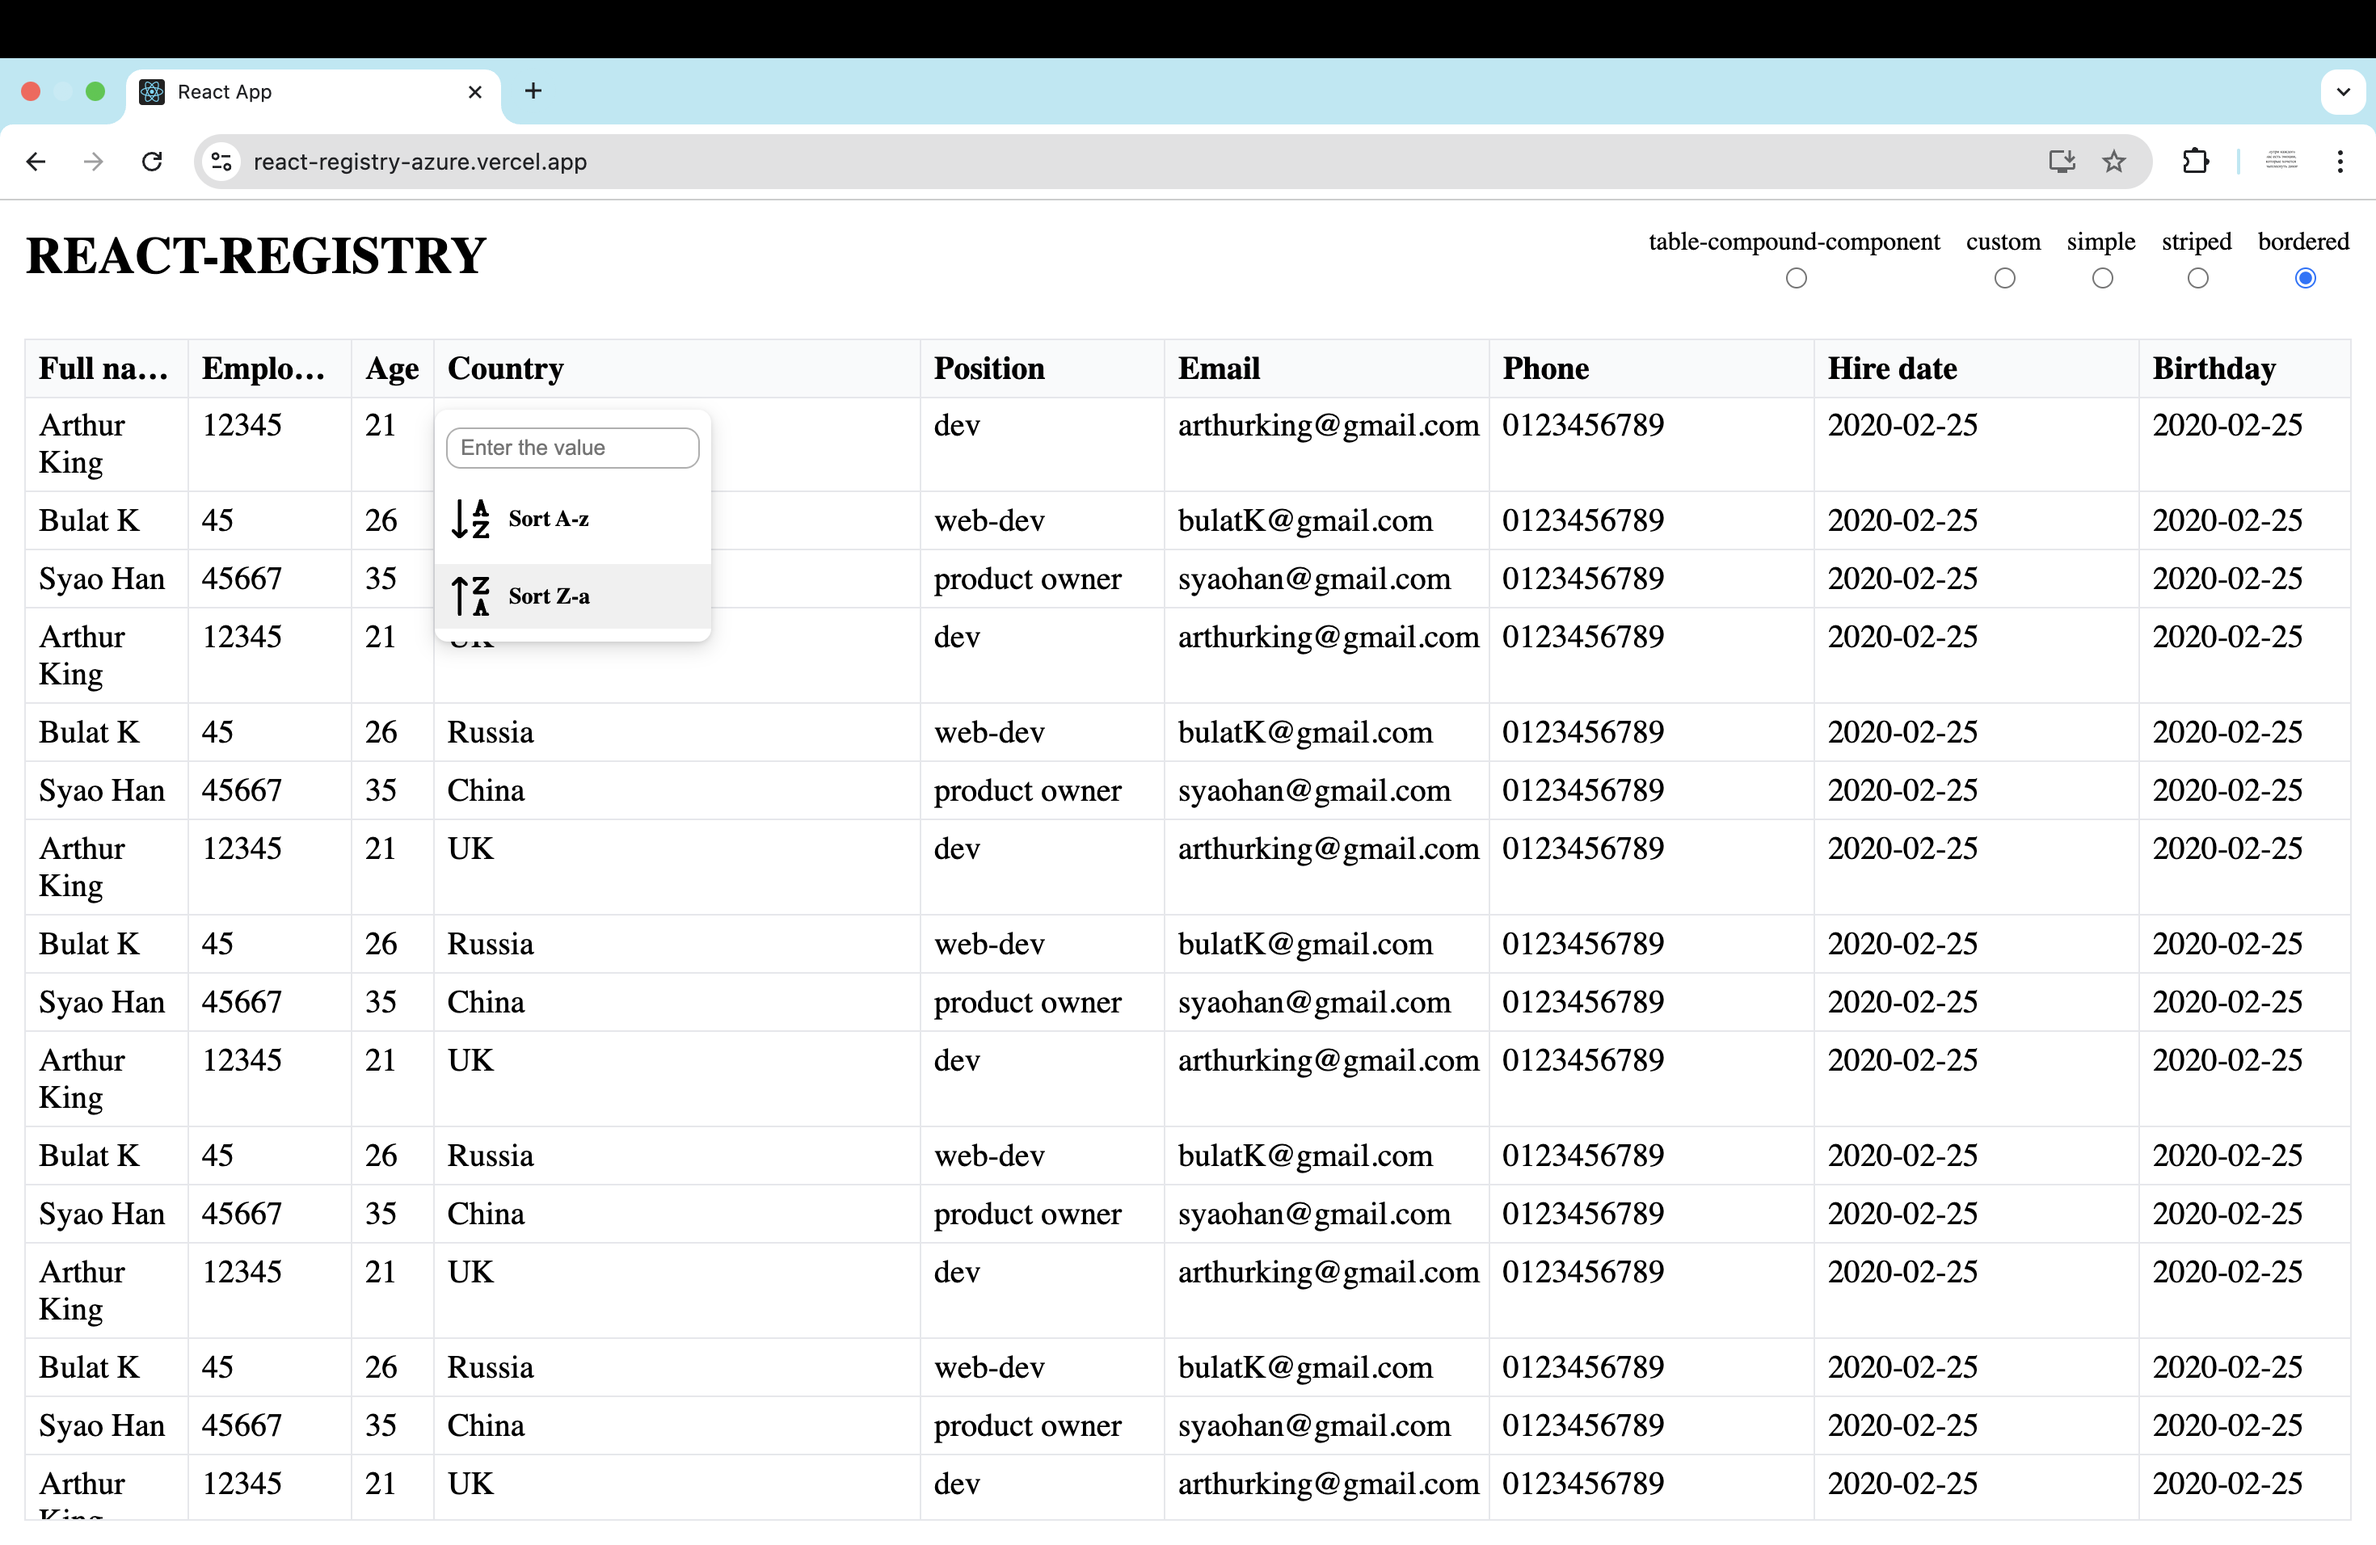
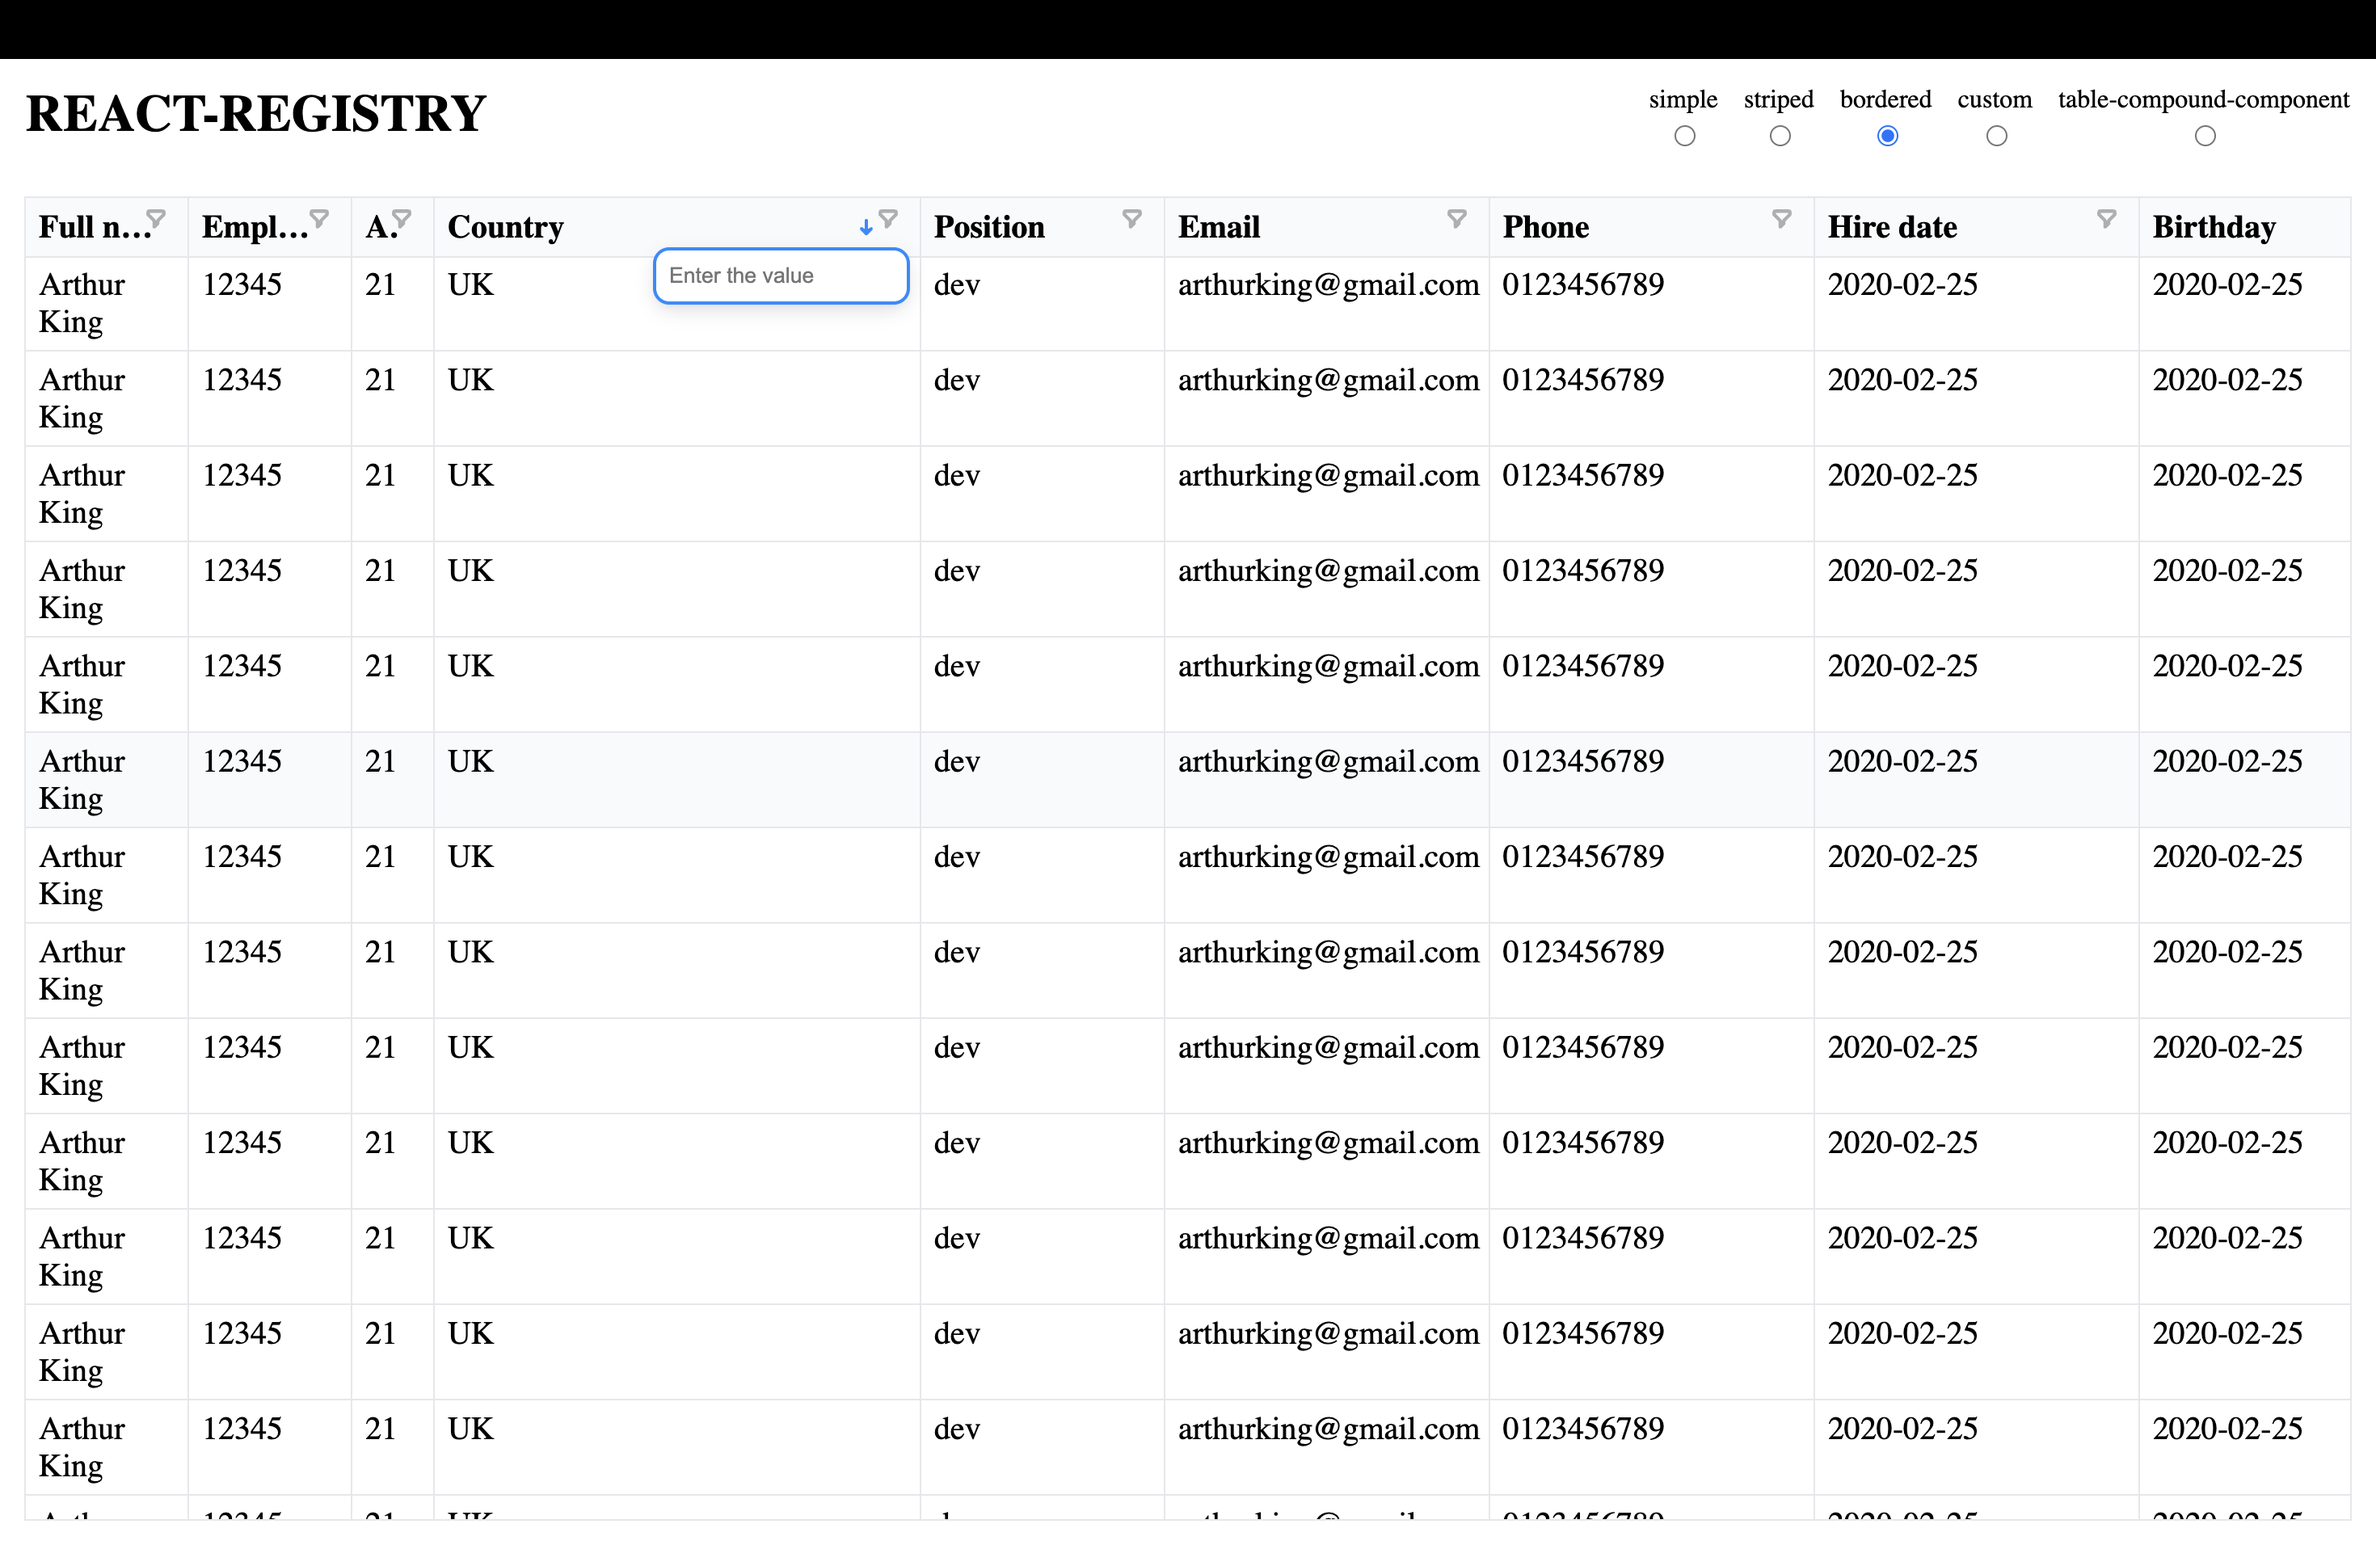
MVP: update: README.md (new correct examples)

diff --git a/README.md b/README.md
@@ -8,9 +8,8 @@ A lightweight, fully typed React component for building powerful data tables —
 
 ## ✨ Features
 
-
-- ✅ **Sorting** — sort data via header popup
-- ✅ **Filtering** — configure filters via header popup
+- ✅ **Column sorting** — click a column header to sort
+- ✅ **Per-column filtering** — click the filter icon in any header to filter that column
 - ✅ **Fully typed** — TypeScript support included
 - ✅ **Minimum dependencies** — no heavy UI libraries
 - ✅ **Easy to customize** — clean, modular code
@@ -27,19 +26,19 @@ npm install react-registry
 ```
 Basic usage (**Registry**):
 ```typescript jsx
-import { Registry } from 'react-registry';
+import { Registry, RegistryHeader } from 'react-registry';
 
 const DATA = [
-    { fullName: 'Harry Potter', employeeNumber: 1, age: 18 }
+    { id: 1, fullName: 'Harry Potter', employeeNumber: 1, age: 18 },
 ];
 
-const HEADERS = [
-    { key: 'fullName', width: 'calc(50% - 30px)', label: 'Full name' },
-    { key: 'employeeNumber', width: 'calc(50% - 30px)', label: 'Employee number' },
+const HEADERS: RegistryHeader<(typeof DATA)[number]>[] = [
+    { key: 'fullName', width: 'calc(50% - 26px)', label: 'Full name' },
+    { key: 'employeeNumber', width: 'calc(50% - 26px)', label: 'Employee number' },
     { key: 'age', width: '50px', label: 'Age' },
 ];
 
-function App() {
+export function App() {
     return (
         <Registry
             data={DATA}
@@ -67,11 +66,13 @@ _💡 For full control, use the Table compound component and utility hooks (see 
 ## Advanced Usage
 ### Custom header rendering (with sort indicators)
 
-Override the default header to show sort direction symbols:
+Override the default header to add a popup component and display sort direction symbols:
 
 ```typescript jsx
+import { Registry, RegistryHeader, SortDirection, Table } from 'react-registry';
 import { DATA, HEADERS } from './constants';
-import { Registry, SortDirection, Table } from 'react-registry';
+import { useCallback, useRef, useState } from 'react';
+import { ColumnPopup } from './column-popup';
 import s from './styles.module.scss';
 
 const getSortSymbol = (sortDir: SortDirection) => {
@@ -85,30 +86,69 @@ const getSortSymbol = (sortDir: SortDirection) => {
     return '';
 };
 
-export const RegistryWithPopup = () => {
+const getStatusSymbol = (status: string) => (status === 'active' ? '✅' : '❌');
+
+export function App() {
     return (
         <Registry
             data={DATA}
             headers={HEADERS}
             variant={'bordered'}
+            layoutMode={'grid'}
             sortable={true}
-            filterable={false}
+            filterable={true}
             className={s.customRegistry}
-            renderHeaderCell={(props) => {
-                return (
-                    <Table.HeaderCell
-                        index={props.index}
-                        width={props.header.width}
-                        onClick={() => props.setSort(props.header.key)}
-                    >
-                        {props.header.label}
-                        {getSortSymbol(props.sortDirection)}
-                    </Table.HeaderCell>
-                );
+            renderHeaderCell={{
+                Component: ({ header, setFilter, setSort, ...props }) => {
+                    const ref = useRef<HTMLDivElement>(null);
+                    const [opened, setOpened] = useState(false);
+                    const toggle = useCallback(() => setOpened((prev) => !prev), []);
+                    const filter = (value: string) =>
+                        setFilter(header.key, value);
+
+                    const sort = (sortDirection: SortDirection) =>
+                        setSort(header.key, sortDirection);
+
+                    return (
+                        <Table.HeaderCell
+                            index={props.index}
+                            width={header.width}
+                            onClick={toggle}
+                        >
+                            <div ref={ref}>
+                                {props.children}
+                                {getSortSymbol(props.sortDirection)}
+                            </div>
+                            {/* CUSTOM POPUP (see: Dropdown.Popup) */}
+                            <ColumnPopup
+                                {...props}
+                                onFilter={filter}
+                                onSort={sort}
+                                onClose={toggle}
+                                anchorRef={ref}
+                                opened={opened}
+                            />
+                        </Table.HeaderCell>
+                    );
+                },
+            }}
+            renderCell={{
+                Content: (props) => {
+                    if (props.columnKey === 'status')
+                        return (
+                            <div className={s.status}>
+                                <div>{props.value}</div>
+                                {getStatusSymbol(props.value)}
+                            </div>
+                        );
+
+                    return props.value;
+                },
             }}
         />
     );
 };
+
 ```
 _💡renderHeaderCell gives you full control over header rendering while keeping sorting logic managed by Registry._
 
@@ -117,12 +157,11 @@ _💡renderHeaderCell gives you full control over header rendering while keeping
 Build your own table layout using low-level components:
 
 ```typescript jsx
-import { Table } from 'react-registry';
+import { Table, useTableSort } from 'react-registry';
 import { DATA, HEADERS } from './constants';
 import s from './styles.module.scss';
-import { useTableSort } from './table-sort';
 
-function App() {
+export function App() {
     const { setSort, sortedData } = useTableSort(DATA);
     return (
         <Table variant={'striped'}>
